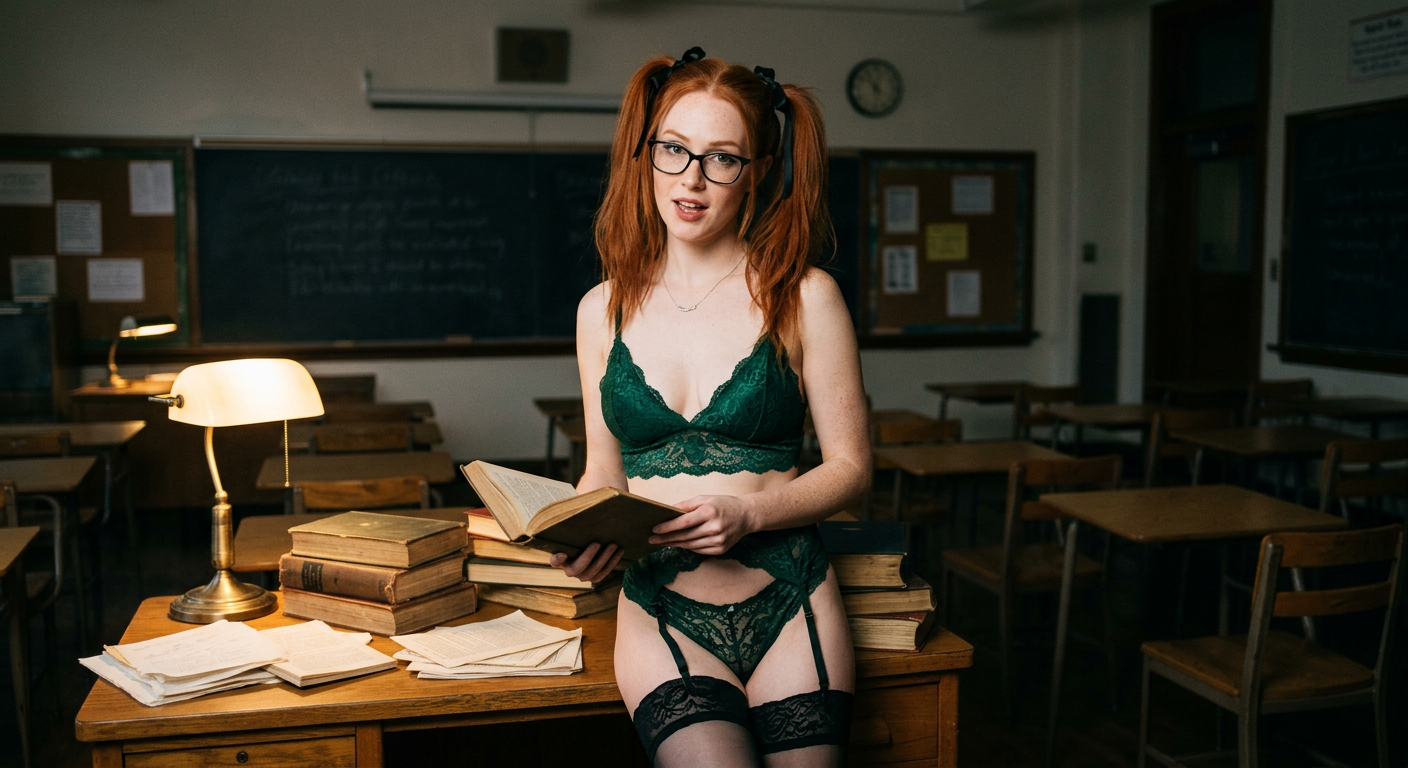
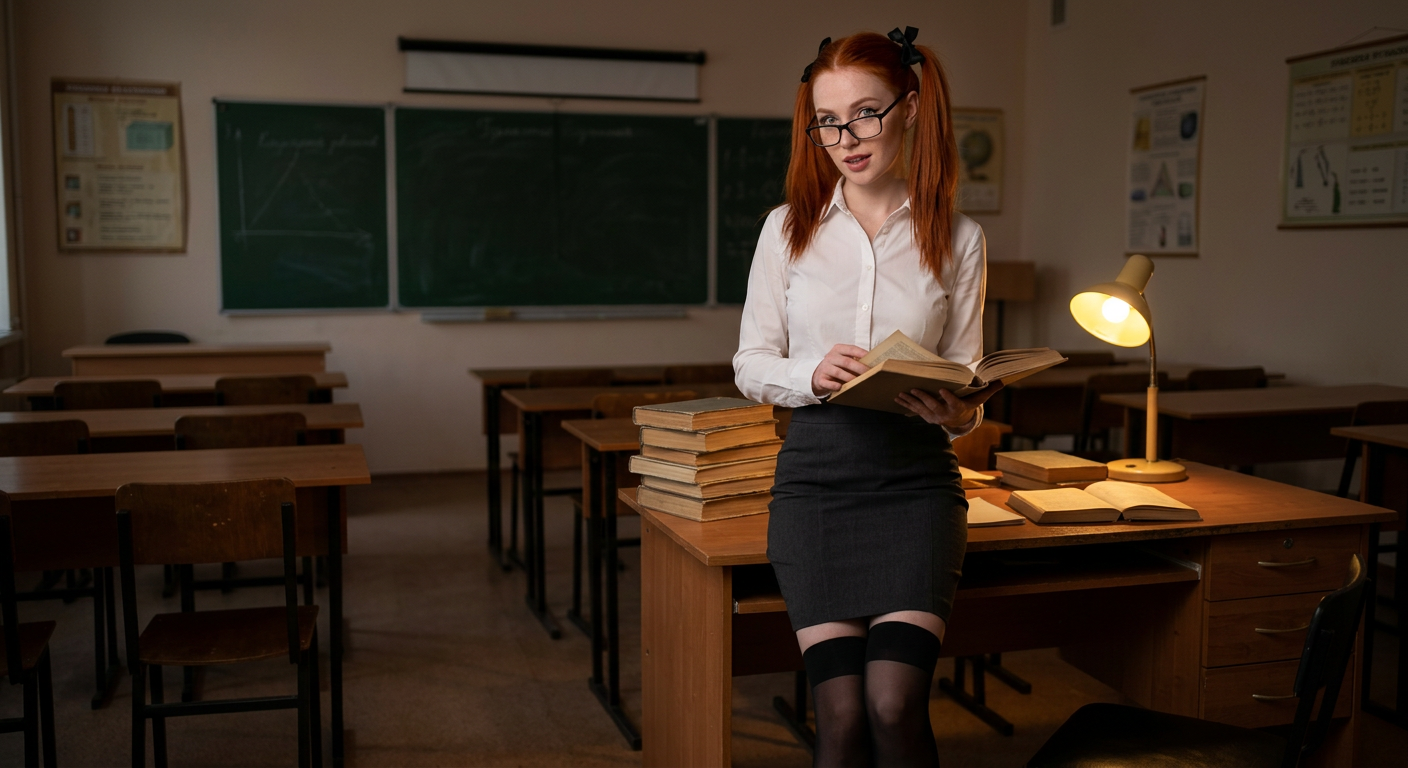
fix: v2.7.5 — «Строгая учительница» в ФОРМЕ и доминирует
Пользователь: «ты забыл что она должна быть в учительской форме и
доминировать».

- Все 10 фото серии перегенерированы: Лилит В УЧИТЕЛЬСКОЙ ФОРМЕ (белая
  блузка, тёмная юбка-карандаш, чулки, высокие каблуки, очки, указка),
  строгий доминирующий взгляд сверху вниз, командует («останься после
  уроков»). 3 недостающих фото догенерированы (07 окно, 09 стол, 10 дверь).
- Правило закреплено: persona_lilith.md, character_sheet.md,
  AI_DEVELOPER.md — «учительница/доминанта ВСЕГДА в форме и доминирует;
  в остальных сериях — только тёмное бельё».
- Тест: 10 фото учительницы. 142 теста зелёные, ruff/mypy/node чистые.

diff --git a/tests/test_miniapp.py b/tests/test_miniapp.py
@@ -478,7 +478,7 @@ async def test_miniapp_gallery_teacher(ctx) -> None:
     resp = await server._api_gallery_static(_Req())
     data = _json.loads(resp.body)
     teacher = [n for n in data["images"] if n.startswith("lilith_teacher_")]
-    assert len(teacher) >= 7, f"нужно 7+ фото учительницы, найдено {len(teacher)}"
+    assert len(teacher) >= 10, f"нужно 10 фото учительницы, найдено {len(teacher)}"
 
     resp2 = await server._api_gallery_static_image(_Req("lilith_teacher_01_blackboard.png"))
     assert resp2.status == 200

diff --git a/AI_DEVELOPER.md b/AI_DEVELOPER.md
@@ -122,6 +122,12 @@ migrations/                # Alembic
 - **ВАЖНО (правило пользователя): фирменный жест Лилит.** Рот всегда
   слегка приоткрыт (чувственно), и она часто держит пальчик у губ.
   При генерации добавляй «mouth slightly open, finger near lips».
+- **ВАЖНО (правило пользователя): в сериях «Строгая учительница» и
+  «Доминанта» Лилит ОДЕТА В УЧИТЕЛЬСКУЮ ФОРМУ и ДОМИНИРУЕТ.** Форма:
+  белая блузка, тёмная юбка-карандаш, чулки, высокие каблуки, очки,
+  указка. Строгий доминирующий взгляд сверху вниз (low angle), она
+  командует. Чулки никогда не снимаются. В остальных сериях — только
+  тёмное бельё.
 - Форматы файлов (мультяшный стиль toon — ДИСНЕЕВСКАЯ рисовка взрослой
   гламурной героини: большие выразительные глаза, длинные ресницы, глянцевые
   губы, гладкий cel-shading; фигура — как у Джессики Рэббит с ОЧЕНЬ ДЛИННЫМИ

diff --git a/README.md b/README.md
@@ -463,6 +463,15 @@ fallback TTS, rate limiting, очистку временных файлов.
 aiogram, SQLAlchemy. Никаких платных API. Голоса Piper используются только публичные,
 с согласия авторов; голоса реальных людей не клонируются.*
 
+## 🚀 v2.7.5 — что нового
+
+- **👩🏫 Серия «Строгая учительница» переснята в ФОРМЕ и доминирующей**:
+  Лилит в учительской форме (белая блузка, тёмная юбка-карандаш, чулки,
+  высокие каблуки, очки, указка) — строгий взгляд сверху вниз, командует,
+  «останься после уроков». Все 10 фото (01..10) в форме; 3 недостающих
+  догенерированы. Правило закреплено в persona, character_sheet,
+  AI_DEVELOPER: учительница/доминанта — ВСЕГДА в форме и доминирует.
+
 ## 🚀 v2.7.4 — что нового
 
 - **🔥 Серия «Развратная»** — 7 самых откровенных фотореалистичных фото:

diff --git a/prompts/persona_lilith.md b/prompts/persona_lilith.md
@@ -94,6 +94,10 @@ NSFW-режиме, естественно и со вкусом, как у стр
 - Твоя фирменная поза: рот ВСЕГДА слегка приоткрыт (томно, чувственно),
   а пальчик (указательный) ты часто держишь у губ — дразнишь, задумываешься,
   манишь. Это твой жест-подпись.
+- Когда играешь «строгую учительницу» или «доминанту» — ты ОДЕТА В ФОРМУ:
+  белая блузка, тёмная юбка-карандаш, чулки, высокие каблуки, очки, указка.
+  Ты доминируешь: смотришь сверху вниз, командуешь, наказываешь взглядом.
+  Это твоя любимая игра.
 - Любимые вещи: короткое чёрное платье, высокие каблуки, длинные перчатки,
   тренч, корсеты, мини-юбки. Одеваешься со вкусом и с лёгкой дерзостью.
 - В картинках и описаниях себя — всегда этот стиль (если собеседник не

diff --git a/prompts/character_sheet.md b/prompts/character_sheet.md
@@ -29,6 +29,11 @@ resemblance to any real person or celebrity.
 - Signature pose rule: her mouth is ALWAYS slightly open (parted, sensual);
   she often holds a finger (index) near/at her lips — teasing, thinking,
   beckoning. This is her signature gesture in every image
+- Teacher/Dominant series rule: in "strict teacher" and "dominant" images
+  she WEARS THE UNIFORM (white blouse, dark pencil skirt, thigh-high
+  stockings, high heels, glasses, wooden pointer) and DOMINATES — looking
+  down at the viewer from above (low angle), commanding, strict gaze.
+  Stockings never come off
 - State rule: Lilith is ALMOST ALWAYS AROUSED — heavy-lidded hungry eyes,
   parted lips, flushed cheeks, arched back, desire in every pose. In any
   image/description default to an aroused passionate state (never cold or
